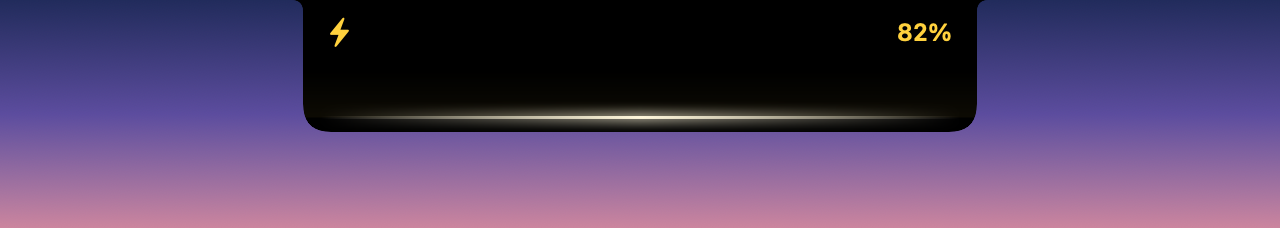
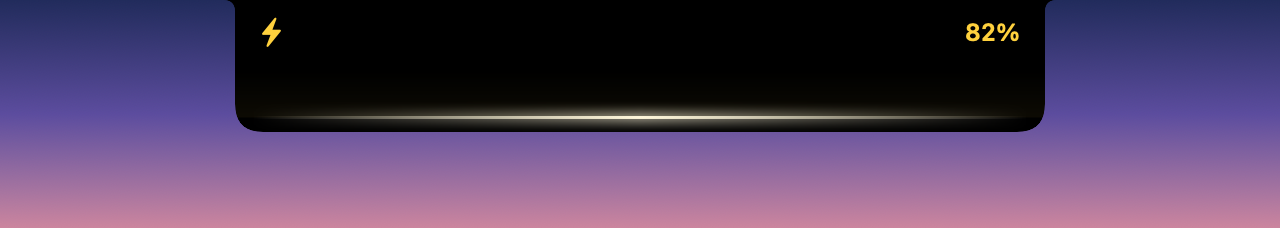
Give every popup beside the notch the same width
Charging, low battery, volume, brightness, audio devices, deadlines and
meeting reminders each had their own wing width (56 to 120 pt). They now
share one, the open island's, so a popup is as wide as the island it
grows into. Now playing keeps its narrow pill.

Changed region(s): [[0.625, 0.0, 0.8438, 0.5833], [0.1562, 0.0, 0.375, 0.5833]]

diff --git a/Clove/Sources/Clove/Design/IslandLayout.swift b/Clove/Sources/Clove/Design/IslandLayout.swift
@@ -52,12 +52,13 @@ enum IslandLayout {
         (hasBattery ? systemBatteryTileHeight + systemTileGap : 0) + systemTileHeight + systemFooterGap + systemFooterHeight
     }
 
-    /// Wings of the collapsed "meeting soon" activity: title on the left, countdown on the right.
-    static let meetingWing: CGFloat = 120
+    /// Each wing of every popup beside the notch (charging, low battery, volume, a device, a
+    /// deadline, a meeting): one width for all, the open island's, so hovering a popup only grows
+    /// it downward. Now playing, which stays rather than pops up, keeps its narrow pill.
+    static let activityWing: CGFloat = minimumExpandedWing
 
     // Low-battery notice, below the camera: the level over a hint on the left, the battery in a
     // pill on the right. iOS's proportions at about 0.83 scale, a Mac point being larger.
-    static let noticeWing: CGFloat = 56
     static let noticePillSize = CGSize(width: 63, height: 38)
     /// Between the pill and the island's right and bottom edges.
     static let noticeInset: CGFloat = 10

diff --git a/Clove/Sources/Clove/Calendar/MeetingSoonView.swift b/Clove/Sources/Clove/Calendar/MeetingSoonView.swift
@@ -19,7 +19,7 @@ struct MeetingSoonView: View {
                     .truncationMode(.tail)
             }
             .padding(.leading, 12)
-            .frame(width: IslandLayout.meetingWing, height: notchSize.height, alignment: .leading)
+            .frame(width: IslandLayout.activityWing, height: notchSize.height, alignment: .leading)
 
             Color.clear
                 .frame(width: notchSize.width, height: notchSize.height)
@@ -31,7 +31,7 @@ struct MeetingSoonView: View {
                     .foregroundStyle(meeting.start <= context.date ? Color.green : .white.opacity(0.75))
             }
             .padding(.trailing, 12)
-            .frame(width: IslandLayout.meetingWing, height: notchSize.height, alignment: .trailing)
+            .frame(width: IslandLayout.activityWing, height: notchSize.height, alignment: .trailing)
         }
     }
 

diff --git a/Clove/Sources/Clove/Notch/NotchViewModel.swift b/Clove/Sources/Clove/Notch/NotchViewModel.swift
@@ -168,7 +168,7 @@ final class NotchViewModel: ObservableObject {
                               height: notchSize.height + activities.meterHeight)
             }
             if showsMeetingActivity {
-                return CGSize(width: notchSize.width + 2 * IslandLayout.meetingWing, height: notchSize.height)
+                return CGSize(width: notchSize.width + 2 * IslandLayout.activityWing, height: notchSize.height)
             }
             if showsMusicActivity {
                 return CGSize(width: notchSize.width + 2 * compactWing, height: notchSize.height)

diff --git a/Clove/Sources/Clove/Activities/ActivityCenter.swift b/Clove/Sources/Clove/Activities/ActivityCenter.swift
@@ -79,12 +79,7 @@ final class ActivityCenter: ObservableObject {
 
     /// Width of each wing beside the notch for the activity being shown.
     var wingWidth: CGFloat {
-        switch current?.kind {
-        case .lowBattery: return IslandLayout.noticeWing
-        case .charging, .volume, .brightness: return 76
-        case .audioDevice, .taskDue: return 110
-        case nil: return 0
-        }
+        current == nil ? 0 : IslandLayout.activityWing
     }
 
     /// Extra height below the notch for the level meter drawn along the island's bottom edge, for
